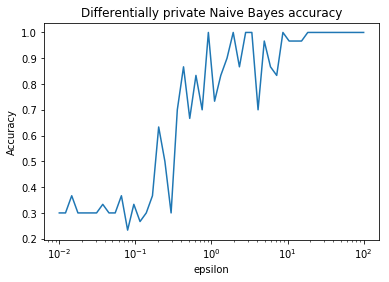
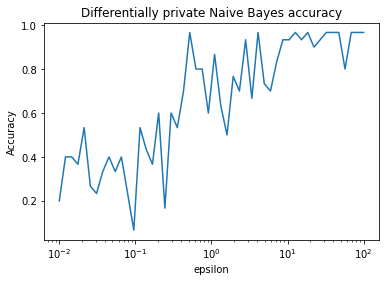
Changing budget allocation, adding tests
Original-author: Naoise Holohan <naoise@nholohan.ie>
Original-committer: Naoise Holohan <naoise@nholohan.ie>
Original-commit: 790b9a27e8a08f80f5d82d2cd4ecd9473f9543f7

diff --git a/diffprivlib/models/naive_bayes.py b/diffprivlib/models/naive_bayes.py
@@ -26,10 +26,9 @@ from sklearn.utils import check_X_y
 from sklearn.utils.multiclass import _check_partial_fit_first_call
 
 from diffprivlib.accountant import BudgetAccountant
-from diffprivlib.mechanisms import Laplace, LaplaceBoundedDomain, Geometric, GeometricTruncated, LaplaceTruncated
+from diffprivlib.mechanisms import LaplaceBoundedDomain, GeometricTruncated, LaplaceTruncated
 from diffprivlib.models.utils import _check_bounds
 from diffprivlib.utils import PrivacyLeakWarning, warn_unused_args
-from diffprivlib.tools import sum as dp_sum
 
 
 class GaussianNB(sk_nb.GaussianNB):
@@ -82,20 +81,18 @@ class GaussianNB(sk_nb.GaussianNB):
 
     """
 
-    def __init__(self, epsilon=1, bounds=None, priors=None, var_smoothing=1e-9, accountant=None, epsilon_split=0.5):
+    def __init__(self, epsilon=1, bounds=None, priors=None, var_smoothing=1e-9, accountant=None):
         super().__init__(priors=priors, var_smoothing=var_smoothing)
 
         self.epsilon = epsilon
         self.bounds = bounds
         self.accountant = BudgetAccountant.load_default(accountant)
-        self.epsilon_split = epsilon_split
 
     def _partial_fit(self, X, y, classes=None, _refit=False, sample_weight=None):
         self.accountant.check(self.epsilon, 0)
 
         if sample_weight is not None:
             warn_unused_args("sample_weight")
-            sample_weight = None
 
         if self.bounds is None:
             warnings.warn("Bounds have not been specified and will be calculated on the data provided. This will "
@@ -215,36 +212,38 @@ class GaussianNB(sk_nb.GaussianNB):
             Updated variance for each Gaussian over the combined set.
         """
         if n_noisy is None:
+            warnings.warn("Noisy class count has not been specified and will be read from the data. To use this "
+                          "method correctly, make sure it is run by the parent GaussianNB class.", PrivacyLeakWarning)
             n_noisy = X.shape[0]
 
         if not n_noisy:
             return mu, var
 
-        # Compute (potentially weighted) mean and variance of new datapoints
         if sample_weight is not None:
             warn_unused_args("sample_weight")
 
+        # Split epsilon between each feature, using 1/3 of total budget for each of mean and variance
         n_features = X.shape[1]
-        local_epsilon = self.epsilon / 2 / n_features
+        local_epsilon = self.epsilon / 3 / n_features
 
         new_mu = np.zeros((n_features,))
         new_var = np.zeros((n_features,))
 
         for feature in range(n_features):
-            local_diameter = self.bounds[1][feature] - self.bounds[0][feature]
             _X = X[:, feature]
+            lower, upper = self.bounds[0][feature], self.bounds[1][feature]
+            local_diameter = upper - lower
 
-            mech_mu = LaplaceTruncated().\
-                set_bounds(self.bounds[0][feature] * n_noisy, self.bounds[1][feature] * n_noisy).\
-                set_epsilon(local_epsilon * self.epsilon_split).\
+            mech_mu = LaplaceTruncated().set_bounds(lower * n_noisy, upper * n_noisy).set_epsilon(local_epsilon).\
                 set_sensitivity(local_diameter)
             _mu = mech_mu.randomise(_X.sum()) / n_noisy
-            new_mu[feature] = _mu
 
-            mech_var = LaplaceBoundedDomain().set_epsilon(local_epsilon * (1 - self.epsilon_split)).\
-                set_sensitivity(local_diameter ** 2).\
-                set_bounds(0, float("inf"))
-            _var = np.minimum(mech_var.randomise(((_X - _mu) ** 2).sum()) / n_noisy, local_diameter ** 2)
+            sens = max(_mu - lower, upper - _mu) ** 2
+            mech_var = LaplaceBoundedDomain().set_epsilon(local_epsilon).set_sensitivity(sens).\
+                set_bounds(0, sens * n_noisy)
+            _var = mech_var.randomise(((_X - _mu) ** 2).sum()) / n_noisy
+
+            new_mu[feature] = _mu
             new_var[feature] = _var
 
         if n_past == 0:
@@ -270,7 +269,8 @@ class GaussianNB(sk_nb.GaussianNB):
         unique_y = np.unique(y)
         n_total = y.shape[0]
 
-        mech = GeometricTruncated().set_epsilon(self.epsilon / 2).set_sensitivity(1).set_bounds(1, n_total)
+        # Use 1/3 of total epsilon budget for getting noisy class counts
+        mech = GeometricTruncated().set_epsilon(self.epsilon / 3).set_sensitivity(1).set_bounds(1, n_total)
         noisy_counts = np.array([mech.randomise((y == y_i).sum()) for y_i in unique_y])
 
         argsort = np.argsort(noisy_counts)

diff --git a/tests/models/test_GaussianNB.py b/tests/models/test_GaussianNB.py
@@ -112,12 +112,11 @@ class TestGaussianNB(TestCase):
 
         bounds = ([4.3, 2.0, 1.0, 0.1], [7.9, 4.4, 6.9, 2.5])
 
-        clf = GaussianNB(epsilon=1.0, bounds=bounds)
+        clf = GaussianNB(epsilon=5.0, bounds=bounds)
         clf.fit(x_train, y_train)
 
         accuracy = clf.score(x_test, y_test)
         counts = clf.class_count_.copy()
-        # print(accuracy)
         self.assertGreater(accuracy, 0.5)
 
         clf.partial_fit(x_train, y_train)
@@ -142,3 +141,35 @@ class TestGaussianNB(TestCase):
 
             with self.assertRaises(BudgetError):
                 clf.fit(x_train, y_train)
+
+    def test_priors(self):
+        X = np.random.random((10, 2))
+        y = np.random.randint(2, size=10)
+
+        clf = GaussianNB(epsilon=1, bounds=([0, 0], [1, 1]), priors=(0.75, 0.25))
+        self.assertIsNotNone(clf.fit(X, y))
+
+        clf = GaussianNB(epsilon=1, bounds=([0, 0], [1, 1]), priors=(1,))
+        with self.assertRaises(ValueError):
+            clf.fit(X, y)
+
+        clf = GaussianNB(epsilon=1, bounds=([0, 0], [1, 1]), priors=(0.5, 0.7))
+        with self.assertRaises(ValueError):
+            clf.fit(X, y)
+
+        clf = GaussianNB(epsilon=1, bounds=([0, 0], [1, 1]), priors=(-0.5, 1.5))
+        with self.assertRaises(ValueError):
+            clf.fit(X, y)
+
+    def test_refit(self):
+        X = np.random.random((10, 2))
+        y = np.random.randint(2, size=10)
+
+        clf = GaussianNB(epsilon=1, bounds=([0, 0], [1, 1]))
+        clf.fit(X, y)
+
+        X2 = np.random.random((10, 3))
+        clf.bounds = ([0, 0, 0], [1, 1, 1])
+
+        with self.assertRaises(ValueError):
+            clf.partial_fit(X2, y)
